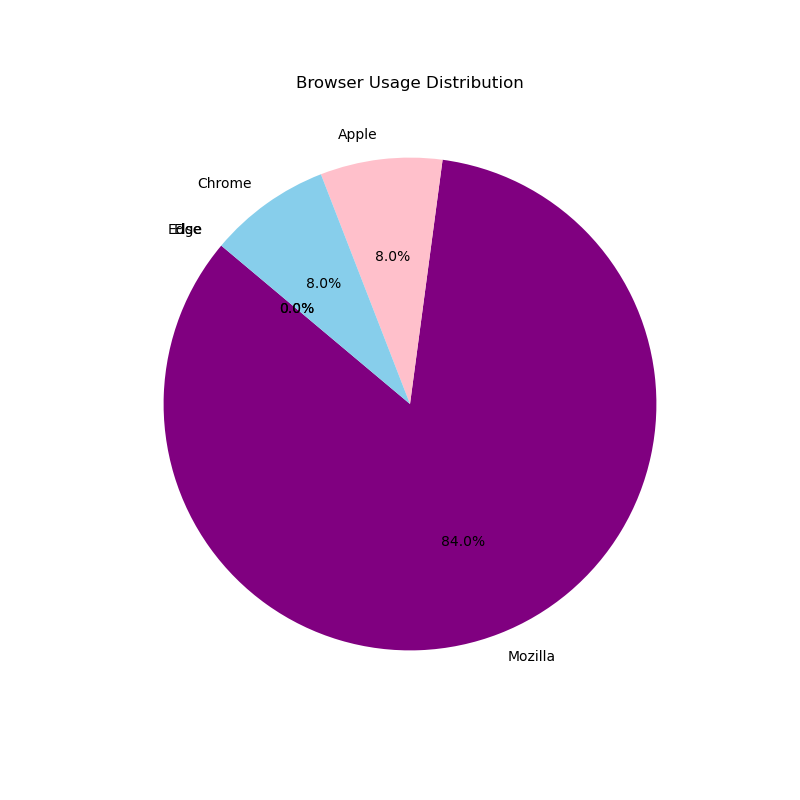
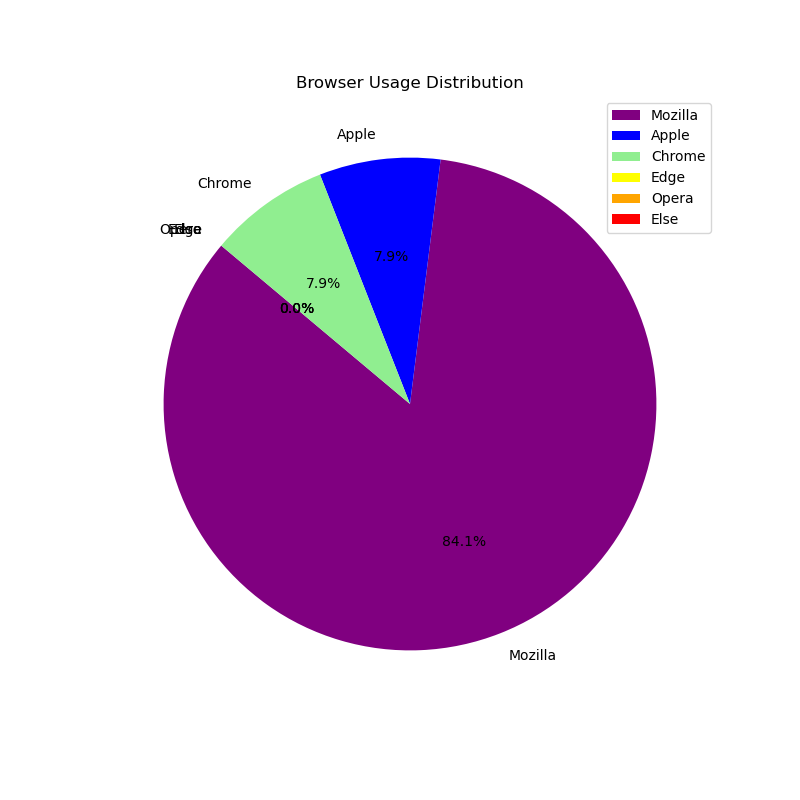
python file improved

diff --git a/logger_graph.py b/logger_graph.py
@@ -6,22 +6,20 @@ data=file.readlines()#opening the file
 title = "Title"
 #plt.title(title)
 title = "Browser Usage Distribution"
-labels = ["Mozilla", "Apple", "Chrome", "Edge", "Else"]
-colors = ["purple", "pink", "skyblue", "lightgreen", "orange"]
+labels = ["Mozilla", "Apple", "Chrome", "Edge","Opera", "Else"]
+colors = ["purple", "blue", "lightgreen", "yellow", "orange","red"]
 
 # Initialize browser count dictionary
 browsers = dict.fromkeys(labels, 0)
 i=0
 for line in data:#here we extract the actual data
+    found=False
     for el in browsers:
-        browsers[el]+=line.__contains__(el)
-    '''user=line[line.find("user")+len("user")+3:]
-    user = user[:user.rfind("\"")]
-    y.append(user)
-    browser=line[line.find("browser")+len("browser")+3:]
-    browser = browser[:browser.rfind("\"")]
-    x.append(browser)
-    print(user)'''
+        if(line.__contains__(el)):
+            browsers[el]+=1
+            found=True
+    if(not found):
+       browsers["Else"]+=1
     
 #x=np.linspace(1,len(row)+1, len(row))#create an arguement
 #plt.scatter(np.array(x),np.array(y), label=labels[0], color=colors[0])
@@ -32,6 +30,7 @@ x = list(browsers.values())
 plt.figure(figsize=(8, 8))  # Set figure size
 plt.pie(x, labels=labels, colors=colors, autopct='%1.1f%%', startangle=140)
 plt.title(title)
+plt.legend()
 
 # Display and save the plot
 plt.savefig("graph.png")  # save the file

diff --git a/public_html/dishes_queries/navbar_for_dishes_search.php b/public_html/dishes_queries/navbar_for_dishes_search.php
@@ -1,6 +1,6 @@
 <?php
-    $our_root ='/public_html';
-    $php_root='C:\Users\kosto\Desktop\repo\public_html'; 
+    $our_root ='';
+    $php_root='/home/tim/repo/public_html'; 
 ?>
 <link href="<?php echo $our_root?>/styles.css" rel="stylesheet"/>
 <link href="<?php echo $our_root?>/dishes_queries/dishes_page.css" rel="stylesheet"/>
